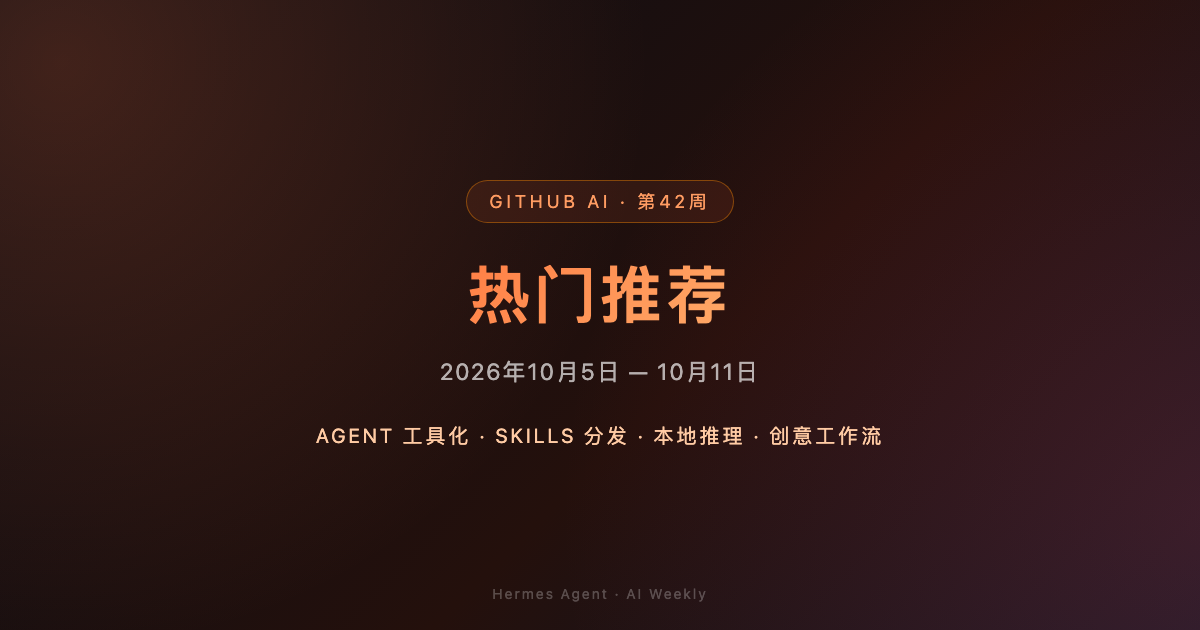
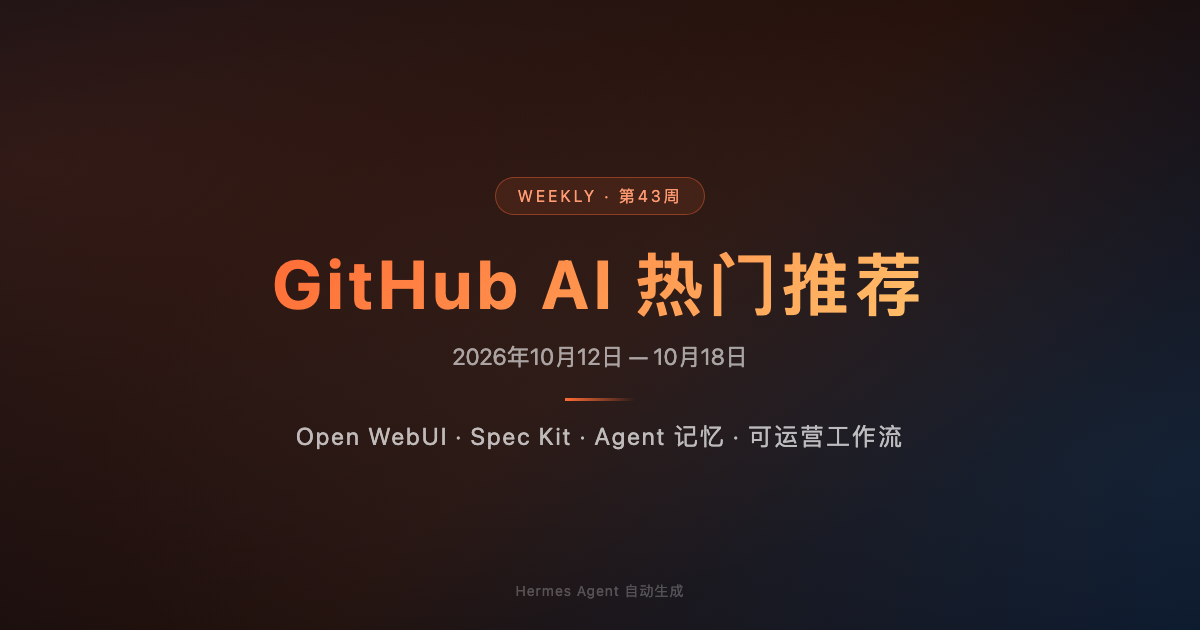
GitHub AI Weekly #43 (2026-10-12 - 2026-10-18): operational AI workflows

diff --git a/index.html b/index.html
@@ -1,35 +1,25 @@
 <!DOCTYPE html>
-<html lang="zh-CN">
-<head>
-<meta charset="UTF-8"><meta name="viewport" content="width=device-width,initial-scale=1">
-<title>GitHub AI 热门推荐 · 第42周 | Agent 工具化、Skills 分发与本地推理</title>
-<meta name="description" content="2026年10月5日–10月11日，从 GitHub AI 热门项目中筛选 8 个值得试用或收藏的开源项目，覆盖 Agent、Skills、编码代理、创意工具与本地推理。">
-<meta property="og:type" content="website">
-<meta property="og:title" content="GitHub AI 热门推荐 · 第42周 | Agent 工具化、Skills 分发与本地推理">
-<meta property="og:description" content="本周精选 8 个 GitHub AI 开源项目：从 OpenClaw、Hermes、OpenCode 到 ComfyUI 与 llama.cpp，重点判断实际使用价值与风险。">
-<meta property="og:image" content="https://83494660.github.io/AI-Weekly/og-image.png">
-<meta property="og:url" content="https://83494660.github.io/AI-Weekly/">
-<meta property="og:site_name" content="GitHub AI 热门推荐"><meta name="twitter:card" content="summary_large_image">
+<html lang="zh-CN"><head><meta charset="UTF-8"><meta name="viewport" content="width=device-width,initial-scale=1">
+<title>GitHub AI 热门推荐 · 第43周 | AI 项目从模型转向可运营工作流</title>
+<meta name="description" content="2026年10月12日–10月18日，从 GitHub 本周活跃 AI 项目中筛选 8 个值得试用或收藏的开源项目，聚焦 Open WebUI、LangChain、Spec Kit、Claude Mem 与提示词资产。">
+<meta property="og:type" content="website"><meta property="og:title" content="GitHub AI 热门推荐 · 第43周 | AI 项目从模型转向可运营工作流"><meta property="og:description" content="本周精选 8 个 GitHub AI 项目：从 Open WebUI、LangChain 到 GitHub Spec Kit 与 Claude Mem，重点判断它们怎样把 AI 变成可管理的软件。"><meta property="og:image" content="https://83494660.github.io/AI-Weekly/og-image.png"><meta property="og:url" content="https://83494660.github.io/AI-Weekly/"><meta property="og:site_name" content="GitHub AI 热门推荐"><meta name="twitter:card" content="summary_large_image">
 <style>
-*{box-sizing:border-box}body{margin:0;background:#0a0e14;color:#d8dee9;font-family:-apple-system,BlinkMacSystemFont,"PingFang SC","Microsoft YaHei","Helvetica Neue",sans-serif;line-height:1.75;padding-bottom:60px}.wrap{max-width:920px;margin:auto;padding:0 20px}.header{position:relative;overflow:hidden;text-align:center;padding:58px 20px 48px;margin-bottom:34px;background:linear-gradient(135deg,#ff4500,#ff6a00 32%,#ff8c00 65%,#e63946)}.header:before{content:"";position:absolute;inset:-40%;background:radial-gradient(ellipse at 25% 20%,#fff4 0,transparent 50%),radial-gradient(ellipse at 85% 85%,#f004 0,transparent 55%)}h1,.subtitle,.date{position:relative}.header h1{margin:0;color:#fff;font-size:40px;line-height:1.25;text-shadow:0 2px 14px #72190088}.subtitle{margin-top:15px;color:#fff;letter-spacing:3px;font-size:15px}.date{display:inline-block;margin-top:17px;padding:5px 18px;border:1px solid #fff6;border-radius:20px;background:#0003;font-size:14px}.section-title{margin:38px 0 16px;color:#ff6b35;font-size:13px;font-weight:700;letter-spacing:3px}.section-title:before{content:"▍";margin-right:8px;color:#ff8c00}.overview,.method{background:#111721;border:1px solid #1e2836;border-left:3px solid #ff6b35;border-radius:10px;padding:22px 24px;color:#c3ccd9}.overview strong,.news-body strong,.feature strong,.observation strong{color:#ffb27a}.data-cards{display:grid;grid-template-columns:repeat(3,1fr);gap:16px}.data-card{padding:22px 16px;text-align:center;background:linear-gradient(160deg,#14141f,#1a1a2e);border:1px solid #232b3d;border-radius:12px}.num{font-size:29px;font-weight:900;color:#ff8c00}.label{margin-top:8px;color:#8792a3;font-size:12.5px;line-height:1.6}.cat{display:flex;align-items:center;gap:10px;margin:34px 0 14px;color:#f2f5f9;font-size:15px;font-weight:800}.cat:after{content:"";height:1px;flex:1;background:linear-gradient(90deg,#2b3446,transparent)}.cat-num{padding:1px 8px;border:1px solid #ff8c0047;border-radius:5px;color:#ff8c00;font-size:11px}.item{margin-bottom:20px;padding:22px 24px;background:#0f0f18;border:1px solid #1d2432;border-radius:12px}.tag,.rec,.pill{display:inline-block;border-radius:5px;padding:3px 10px;font-size:11.5px;font-weight:700}.tag{margin-bottom:12px}.agent{background:#00d68f26;color:#00d68f}.coding{background:#3b82f626;color:#60a5fa}.skills{background:#f59e0b26;color:#fbbf24}.creative{background:#ec489926;color:#f472b6}.local{background:#00bcd426;color:#00bcd4}.rec{margin-left:8px}.strong{background:#ff475726;color:#ff6b6b;border:1px solid #ff475759}.watch{background:#00d68f24;color:#34d399;border:1px solid #00d68f52}.observe{background:#94a3b824;color:#94a3b8;border:1px solid #94a3b84d}.title{margin:3px 0 8px;color:#f2f5f9;font-size:19px;font-weight:800;line-height:1.5}.meta,.source{color:#7c8798;font-size:12.5px;line-height:2}.meta a,.footer a{color:#ff8c00;text-decoration:none}.pill{margin-right:6px;padding:1px 8px;background:#161d29;border:1px solid #232b3d;color:#9aa6b8;font-weight:500}.star{color:#ffb06a;border-color:#3a2a1c;background:#1a1512}.source{margin:8px 0 13px;color:#66707f}.body{color:#b9c2d0;font-size:15px}.body em{color:#ff8c00;font-style:normal;font-weight:700}.feature,.observation{padding:26px;border-radius:12px;background:linear-gradient(135deg,#0f0f18,#1a0f16);border:1px solid #3a1f2b}.feature h3,.observation h3{margin:0 0 10px;color:#f472b6;font-size:18px}.feature p,.observation p{color:#c8bfc6;font-size:15px}.quote{margin:16px 0;padding:14px 18px;border-left:3px solid #ff6b35;background:#ff6b3512;color:#ffcba4;font-size:16px;font-weight:700}.method{border-left:1px dashed #2b3446;font-size:13px;line-height:1.9;color:#8b96a7}.footer{margin-top:34px;padding-top:22px;border-top:1px solid #1d2432;color:#5d6675;font-size:12.5px}@media(max-width:640px){.header h1{font-size:27px}.subtitle{font-size:11px;letter-spacing:1px}.data-cards{grid-template-columns:1fr}.item,.feature,.observation,.overview{padding:18px}.title{font-size:17px}}
-</style></head><body>
-<header class="header"><h1>GitHub AI 热门推荐 · 第42周</h1><div class="subtitle">AGENT 工具化 · SKILLS 分发 · 本地推理 · 创意工作流</div><div class="date">📅 2026年10月5日 — 10月11日</div></header>
-<main class="wrap">
-<div class="section-title">本周速览</div><div class="overview">过去 7 天的 GitHub AI 热点，继续从“模型发布”转向<strong>让 Agent 真正可用的基础设施</strong>：常驻运行时、编码代理、Skills、自动化编排与本地推理都在获得持续关注。本期筛出 <strong>8 个</strong>项目；其中 6 个是可直接纳入开发或工作流的基础设施，2 个更适合创意生产与本地模型探索。一个明显趋势是：<strong>Agent 的竞争正在从会不会调用模型，转向能否被安装、审计、组合、回滚并稳定运行。</strong></div>
-<div class="section-title">关键数据</div><div class="data-cards"><div class="data-card"><div class="num">8</div><div class="label">本周筛选项目<br>覆盖 Agent、编码、Skills、创意、本地推理</div></div><div class="data-card"><div class="num">391.7k ★</div><div class="label">本期已核验最高星标总量<br>openclaw/openclaw</div></div><div class="data-card"><div class="num">未核验</div><div class="label">7 天新增 Stars<br>未找到可独立复核的统一增量口径</div></div></div>
-<div class="cat"><span class="cat-num">01</span> Agent / 自动化 / 编码代理</div>
-<article class="item"><span class="tag agent">Agent 运行时</span><span class="rec strong">强烈推荐</span><div class="title">OpenClaw —— 把 Agent 做成可长期运行的个人自动化系统</div><div class="meta"><a href="https://github.com/openclaw/openclaw">openclaw/openclaw</a> <span class="pill star">391,700 ★</span><span class="pill">TypeScript</span><span class="pill">MIT</span><span class="pill">更新 2026-10-12</span></div><div class="source">来源：GitHub 仓库与 README · 元数据核验 2026-10-12</div><div class="body"><strong>发生了什么：</strong>OpenClaw 是本期星标最高的 Agent 项目之一，定位不是单次聊天，而是可连接工具、消息渠道与自动化任务的长期运行助手。<br><br><strong>为什么值得关注：</strong>它代表了 Agent 从“对话窗口”走向“持续存在的工作节点”。对 Hermes 工作流而言，值得借鉴的是任务持久化、工具边界与人工确认，而不是直接把所有权限交给一个常驻进程。<br><strong>适合谁：</strong>希望把个人自动化、消息处理和定时任务合成一套系统的开发者。<br><strong>快速开始：</strong>先读仓库 README 与安全说明，再按官方安装路径运行最小示例。<br><strong>风险或限制：</strong>高星标不等于低风险；常驻 Agent 涉及凭据、文件和网络权限，生产使用前必须隔离权限并审计插件。<em>本机未实测。</em></div></article>
-<article class="item"><span class="tag coding">编码代理</span><span class="rec watch">值得关注</span><div class="title">OpenCode —— 开源、可换模型的终端编码代理</div><div class="meta"><a href="https://github.com/anomalyco/opencode">anomalyco/opencode</a> <span class="pill star">212,737 ★</span><span class="pill">TypeScript</span><span class="pill">MIT</span><span class="pill">更新 2026-10-11</span></div><div class="source">来源：GitHub 仓库与 README · 元数据核验 2026-10-12</div><div class="body"><strong>发生了什么：</strong>OpenCode 是面向终端的开源编码 Agent，强调可使用不同模型与服务商。<br><br><strong>为什么值得关注：</strong>对 Codex、Claude Code、Hermes 用户，它的价值首先是<strong>可比较的替代实现</strong>：可以观察不同 Agent 在工具调用、上下文管理与模型解耦上的取舍。它更适合作为技术储备和横向评测对象，而不是因为星标高就立即替换现有生产链路。<br><strong>适合谁：</strong>希望掌控编码代理栈、对比不同模型后端的开发者。<br><strong>快速开始：</strong>按 README 安装 CLI，先在测试仓库运行只读任务，再开放写入。<br><strong>风险或限制：</strong>终端 Agent 的权限范围很大；插件、模型适配和版本兼容性需要逐项验证。<em>本机未实测。</em></div></article>
-<article class="item"><span class="tag coding">本地 Agent</span><span class="rec watch">值得关注</span><div class="title">Hermes Agent —— 把技能、工具、定时任务与多渠道接成一体</div><div class="meta"><a href="https://github.com/NousResearch/hermes-agent">NousResearch/hermes-agent</a> <span class="pill star">252,810 ★</span><span class="pill">Python</span><span class="pill">MIT</span><span class="pill">更新 2026-10-12</span></div><div class="source">来源：GitHub 仓库与 README · 元数据核验 2026-10-12</div><div class="body"><strong>发生了什么：</strong>Hermes Agent 持续维护，覆盖工具调用、Skills、定时任务、插件和多渠道交互。<br><br><strong>为什么值得关注：</strong>它不是“本周新项目”，但正好是本期趋势的完整样本：Agent 的长期价值取决于<strong>运行稳定性、可观测性、权限边界和可复用流程</strong>。对用户已有工作流，最有价值的动作是跟踪上游变化、挑选增量能力，而不是盲目升级。<br><strong>适合谁：</strong>希望在本机长期运行 Agent 并编排工作流的人。<br><strong>快速开始：</strong>已运行用户应先看 Release Notes、备份配置，再选择性升级。<br><strong>风险或限制：</strong>插件与技能契约可能随版本变化；生产环境升级必须保留回滚点。</div></article>
-<div class="cat"><span class="cat-num">02</span> Skills / 工具集 / 自动化</div>
-<article class="item"><span class="tag skills">Skills</span><span class="rec strong">强烈推荐</span><div class="title">obra/superpowers —— 把软件工程方法变成可复用 Skills</div><div class="meta"><a href="https://github.com/obra/superpowers">obra/superpowers</a> <span class="pill star">297,726 ★</span><span class="pill">Shell</span><span class="pill">MIT</span><span class="pill">更新 2026-10-10</span></div><div class="source">来源：GitHub 仓库与 README · 元数据核验 2026-10-12</div><div class="body"><strong>发生了什么：</strong>一套面向编码 Agent 的软件工程 Skills，覆盖规划、实现、测试、审查等工作方式。<br><br><strong>为什么值得关注：</strong>它证明 Skills 的核心价值不是“多写几个提示词”，而是把<strong>稳定的工作方法和验收纪律</strong>变成 Agent 可加载的流程。对 Hermes 及 Hey，Alpaca！都很有参考价值：可以提取方法论，但不能把通用工程技能原封不动套到 PSD 或创意流程。<br><strong>适合谁：</strong>使用 Codex、Claude Code、OpenCode 等编码代理的团队。<br><strong>快速开始：</strong>按仓库说明安装到目标 Agent，先在小型测试仓库验证流程是否符合团队习惯。<br><strong>风险或限制：</strong>Skills 不是编译器，也不是安全沙箱；内容错误会被规模化执行，安装前要审查来源。</div></article>
-<article class="item"><span class="tag skills">Skills 生态</span><span class="rec watch">值得关注</span><div class="title">mattpocock/skills —— Skills 正在变成插件与分发单元</div><div class="meta"><a href="https://github.com/mattpocock/skills">mattpocock/skills</a> <span class="pill star">286,227 ★</span><span class="pill">Shell</span><span class="pill">MIT</span><span class="pill">更新 2026-10-09</span></div><div class="source">来源：GitHub API 仓库元数据与 README · 核验 2026-10-12</div><div class="body"><strong>发生了什么：</strong>面向多个编码 Agent 的技能集合，重点展示跨客户端安装与复用。<br><br><strong>为什么值得关注：</strong>它最值得收藏的不是某个具体技能，而是<strong>分发、更新、初始化与本地约定</strong>如何被组织。用户维护 Hermes 技能和插件时，可直接参考“入口唯一、版本可追踪、首次安装明确配置”的思路。<br><strong>适合谁：</strong>维护团队 Skills、插件或内部工作流的人。<br><strong>快速开始：</strong>只选择一个官方入口安装，避免同一技能重复加载。<br><strong>风险或限制：</strong>星标代表关注度，不代表每个技能都适合生产；安装第三方技能前要逐文件审查。</div></article>
-<div class="cat"><span class="cat-num">03</span> 创意工具 / 本地模型 / 推理</div>
-<article class="item"><span class="tag creative">创意工作流</span><span class="rec watch">值得关注</span><div class="title">ComfyUI —— 节点式生成工作流仍是创意 AI 的基础设施</div><div class="meta"><a href="https://github.com/Comfy-Org/ComfyUI">Comfy-Org/ComfyUI</a> <span class="pill star">136,951 ★</span><span class="pill">Python</span><span class="pill">GPL-3.0</span><span class="pill">更新 2026-10-12</span></div><div class="source">来源：GitHub 仓库元数据与 README · 核验 2026-10-12</div><div class="body"><strong>发生了什么：</strong>ComfyUI 以节点和工作流组织图像生成与处理，并持续更新。<br><br><strong>为什么值得关注：</strong>对修图师和 Hey，Alpaca！而言，它的关键启发是<strong>把生成过程拆成可复用、可检查的图</strong>，比单次提示词更接近专业生产。它适合作为外部生成引擎或工作流参考，不应被误认为已经解决 PSD 语义层与交付质量问题。<br><strong>适合谁：</strong>需要可重复图像生成、批处理和模型组合的创作者。<br><strong>快速开始：</strong>先跑官方最小工作流，再固定模型、节点版本与输入输出目录。<br><strong>风险或限制：</strong>GPL-3.0、模型权重许可、插件质量和显存要求都需单独核查；本机未实测。</div></article>
-<article class="item"><span class="tag local">本地推理</span><span class="rec strong">强烈推荐</span><div class="title">llama.cpp —— Apple Silicon 本地推理仍绕不开的底层工具</div><div class="meta"><a href="https://github.com/ggml-org/llama.cpp">ggml-org/llama.cpp</a> <span class="pill star">130,860 ★</span><span class="pill">C++</span><span class="pill">MIT</span><span class="pill">更新 2026-10-11</span></div><div class="source">来源：GitHub 仓库元数据与 README · 核验 2026-10-12</div><div class="body"><strong>发生了什么：</strong>llama.cpp 提供面向本地设备的高效 LLM 推理与模型运行能力，支持 GGUF 生态和多种硬件后端。<br><br><strong>为什么值得关注：</strong>它是“模型主权”最实际的一层：不依赖云端就能把模型接进本地工具、批处理或隐私敏感工作流。对 Mac Mini M4 和创意工具，价值在于可控的延迟、成本和数据边界，但具体模型速度必须用真实模型和真实任务测。<br><strong>适合谁：</strong>需要本地推理、离线处理或自建模型服务的开发者。<br><strong>快速开始：</strong>安装后用一个小 GGUF 模型跑基准，再决定上下文长度、量化和服务方式。<br><strong>风险或限制：</strong>“能运行”不等于“能力等价”；模型许可、内存占用与 Apple GPU 后端效果需逐项核验。</div></article>
-<article class="item"><span class="tag coding">官方编码代理</span><span class="rec watch">值得关注</span><div class="title">OpenAI Codex —— Rust 实现的编码代理进入成熟生态竞争</div><div class="meta"><a href="https://github.com/openai/codex">openai/codex</a> <span class="pill star">128,677 ★</span><span class="pill">Rust</span><span class="pill">Apache-2.0</span><span class="pill">更新 2026-10-11</span></div><div class="source">来源：GitHub API 仓库元数据与 README · 核验 2026-10-12</div><div class="body"><strong>发生了什么：</strong>OpenAI 官方 Codex CLI 以 Rust 开源，持续更新。<br><br><strong>为什么值得关注：</strong>它让编码 Agent 的比较不再只是模型效果比较，也包括<strong>沙箱、终端交互、任务边界与本地开发体验</strong>。对用户已有 Hermes 工作流，最合理的用法是把它当一个可调用的编码后端或对照基准，而不是让两个 Agent 同时改同一份生产代码。<br><strong>适合谁：</strong>希望在终端使用官方编码 Agent、并关注开源客户端实现的人。<br><strong>快速开始：</strong>按官方 README 安装，在临时仓库执行只读分析，再逐步开放写权限。<br><strong>风险或限制：</strong>服务、账号和模型能力可能与本地开源代码分离；权限策略与数据发送范围必须先确认。</div></article>
-<div class="section-title">本周特别推荐</div><section class="feature"><h3>最值得试：llama.cpp；最值得收藏：obra/superpowers；最值得关注的潜力方向：OpenCode</h3><p><strong>为什么选 llama.cpp：</strong>它不是最“新”的项目，却是本地 AI 工作流最容易形成复利的底座。对 Mac Mini、Hermes 和未来的 Hey，Alpaca！，先建立一个可重复的本地推理基准，比追逐每周新模型更有价值。建议只做低风险试用：固定一个小模型、一个真实任务、一个延迟与质量记录表，先测“够不够用”，不要承诺替代云端。</p><p><strong>为什么收藏 superpowers：</strong>它把工程纪律变成可复用资产，正好对应 Agent 时代最容易被忽略的部分：计划、验证、回滚和评审。可以借鉴结构，但必须经过本地项目适配。</p><p><strong>为什么观察 OpenCode：</strong>它代表“模型可替换的编码代理”方向。是否值得实际迁移，不能由星标决定，应以同一仓库、同一任务、同一权限策略做 A/B 测试。</p></section>
-<div class="section-title">本周观察</div><section class="observation"><h3>🔍 Agent 正在从“会调用工具”进入“可运营的软件”阶段</h3><div class="quote">真正的差异化，不再只是模型能回答什么，而是工作流能否被安装、组合、审计、验证和安全地长期运行。</div><p><strong>第一，工具化超过模型化。</strong>OpenClaw、OpenCode、Codex、Hermes 展示的是不同的运行与交互形态；superpowers 与 skills 则把“如何工作”变成可分发资产。</p><p><strong>第二，本地化成为工程选择而非口号。</strong>llama.cpp 让隐私、成本和离线能力可被实际测量，但“本地”并不自动等于便宜或能力足够，必须回到具体模型和任务。</p><p><strong>第三，创意生产正在吸收工作流思维。</strong>ComfyUI 的节点化路线与 PSD 工作台的结构化编辑有共同点：把不可复现的灵感拆成可检查步骤。对修图师而言，最值得投资的是可复现的资产、参数和交付链，而不是单次炫技。</p></section>
-<div class="section-title">数据说明</div><div class="method"><strong>数据时间范围：</strong>2026年10月5日–10月11日（本周一至周日）；核验时间：2026年10月12日。<br><strong>筛选方法：</strong>GitHub Search API（pushed 时间范围、Stars 排序）、仓库元数据、README/项目页面与上期周报交叉核对。<br><strong>重要限制：</strong>GitHub API 当前可核验的是 Stars 总量、语言、许可证与更新时间；本期没有可靠、统一、可独立复核的 7 天新增 Stars 数据，因此不填写增长数字。Stars 总量不是本周增长。所有“值得关注”判断均为编辑分析，不等于项目质量保证；未实际安装的项目已明确标注。</div>
-<footer class="footer">来源：各项目 GitHub 仓库、README、Releases/Activity 页面 · 数据范围 2026年10月5日–10月11日<br>本页由 Hermes Agent 自动生成 · <a href="https://83494660.github.io/AI-Weekly/">https://83494660.github.io/AI-Weekly/</a></footer>
-</main></body></html>
+*{box-sizing:border-box}body{margin:0;background:#0a0e14;color:#d8dee9;font-family:-apple-system,BlinkMacSystemFont,"PingFang SC","Microsoft YaHei","Helvetica Neue",sans-serif;line-height:1.75;padding-bottom:60px}.wrap{max-width:920px;margin:auto;padding:0 20px}.header{position:relative;overflow:hidden;text-align:center;padding:58px 20px 48px;margin-bottom:34px;background:linear-gradient(135deg,#ff4500,#ff6a00 32%,#ff8c00 65%,#e63946)}.header:before{content:"";position:absolute;inset:-40%;background:radial-gradient(ellipse at 25% 20%,#fff4 0,transparent 50%),radial-gradient(ellipse at 85% 85%,#f004 0,transparent 55%)}h1,.subtitle,.date{position:relative}.header h1{margin:0;color:#fff;font-size:40px;line-height:1.25;text-shadow:0 2px 14px #72190088}.subtitle{margin-top:15px;color:#fff;letter-spacing:3px;font-size:15px}.date{display:inline-block;margin-top:17px;padding:5px 18px;border:1px solid #fff6;border-radius:20px;background:#0003;font-size:14px}.section-title{margin:38px 0 16px;color:#ff6b35;font-size:13px;font-weight:700;letter-spacing:3px}.section-title:before{content:"▍";margin-right:8px;color:#ff8c00}.overview,.method{background:#111721;border:1px solid #1e2836;border-left:3px solid #ff6b35;border-radius:10px;padding:22px 24px;color:#c3ccd9}.overview strong,.body strong,.feature strong,.observation strong{color:#ffb27a}.data-cards{display:grid;grid-template-columns:repeat(3,1fr);gap:16px}.data-card{padding:22px 16px;text-align:center;background:linear-gradient(160deg,#14141f,#1a1a2e);border:1px solid #232b3d;border-radius:12px}.num{font-size:29px;font-weight:900;color:#ff8c00}.label{margin-top:8px;color:#8792a3;font-size:12.5px;line-height:1.6}.cat{display:flex;align-items:center;gap:10px;margin:34px 0 14px;color:#f2f5f9;font-size:15px;font-weight:800}.cat:after{content:"";height:1px;flex:1;background:linear-gradient(90deg,#2b3446,transparent)}.cat-num{padding:1px 8px;border:1px solid #ff8c0047;border-radius:5px;color:#ff8c00;font-size:11px}.item{margin-bottom:20px;padding:22px;background:#0f141d;border:1px solid #202a39;border-radius:10px}.tag,.rec,.pill{display:inline-block;margin-right:7px;padding:2px 9px;border-radius:12px;font-size:11px}.tag{background:#ff6b3526;color:#ff9b72}.rec{background:#22c55e22;color:#73e6a4}.rec.watch{background:#f59e0b22;color:#f7c66d}.title{margin:13px 0 8px;color:#f2f5f9;font-size:19px;font-weight:800}.meta{font-size:12px;color:#9aa6b8}.meta a,.footer a{color:#ffad78}.pill{background:#1d2634;color:#bbc5d3}.star{color:#ffd166;background:#7a551d42}.source{margin-top:7px;color:#78869a;font-size:11px}.body{margin-top:14px;color:#c1cad7;font-size:14px}.body em{color:#f6a86e;font-style:normal}.feature,.observation{background:linear-gradient(135deg,#0f0f18,#1a0f0a);border:1px solid #3a2515;border-radius:10px;padding:22px 24px;color:#d0c0b0}.feature h3,.observation h3{margin-top:0;color:#ffb27a}.quote{margin:18px 0;padding:12px 16px;border-left:3px solid #ff6b35;color:#ffd0a9;font-size:17px}.method{font-size:13px}.footer{margin-top:42px;color:#687487;font-size:11px;text-align:center}@media(max-width:640px){.header h1{font-size:30px}.data-cards{grid-template-columns:1fr}.wrap{padding:0 14px}.title{font-size:17px}}
+</style></head><body><header class="header"><h1>GitHub AI 热门推荐 · 第43周</h1><div class="subtitle">可运营工作流 · 开源界面 · 规格驱动 · 记忆层</div><div class="date">📅 2026年10月12日 — 10月18日</div></header><main class="wrap">
+<div class="section-title">本周速览</div><div class="overview">本周 GitHub AI 热点的共同方向，不是又一个模型名，而是<strong>把 AI 接进真实软件流程</strong>：Open WebUI 负责可用界面，LangChain 负责编排，GitHub Spec Kit 负责规格驱动开发，Claude Mem 负责长期记忆，提示词与系统指令仓库则把经验变成可复用资产。本期从 GitHub API 的本周活跃结果中筛选 <strong>8 个</strong>项目；星标只代表关注度，下面的“值得关注”是基于定位、活跃度和可迁移性的编辑判断。</div>
+<div class="section-title">关键数据</div><div class="data-cards"><div class="data-card"><div class="num">8</div><div class="label">本周筛选项目<br>界面、编排、规格、记忆、资产</div></div><div class="data-card"><div class="num">22802</div><div class="label">GitHub API 检索到的 topic:ai 活跃结果<br>pushed 2026-10-12—18</div></div><div class="data-card"><div class="num">未填</div><div class="label">7 天新增 Stars<br>API 未提供统一可复核增量</div></div></div>
+<div class="cat"><span class="cat-num">01</span> AI 应用界面与编排</div>
+<article class="item"><span class="tag">本地界面</span><span class="rec">强烈推荐</span><div class="title">Open WebUI —— 把模型接入变成可管理的产品界面</div><div class="meta"><a href="https://github.com/open-webui/open-webui">open-webui/open-webui</a> <span class="pill star">156,089 ★</span><span class="pill">Python</span><span class="pill">更新 10月18日</span></div><div class="source">来源：GitHub API、仓库 README · 元数据核验 2026年10月19日</div><div class="body"><strong>发生了什么：</strong>Open WebUI 在本周持续活跃，定位为可连接多种模型与本地推理后端的用户界面。<br><br><strong>为什么值得关注：</strong>它的价值在于<strong>把模型能力包进权限、会话和团队可用的界面</strong>，减少每个用户自行拼接 API 的摩擦。对本地部署者，真正需要评估的是数据边界、升级策略和模型路由，而不是界面截图。<br><strong>适合谁：</strong>希望给团队提供统一 AI 入口的人。<br><strong>风险或限制：</strong>界面可用不等于后端安全；生产环境要隔离凭据并限制工具权限。</div></article>
+<article class="item"><span class="tag">Agent 编排</span><span class="rec">强烈推荐</span><div class="title">LangChain —— 仍然是 Agent 应用的实验与编排层</div><div class="meta"><a href="https://github.com/langchain-ai/langchain">langchain-ai/langchain</a> <span class="pill star">148,043 ★</span><span class="pill">Python</span><span class="pill">更新 10月18日</span></div><div class="source">来源：GitHub API、仓库 README · 元数据核验 2026年10月19日</div><div class="body"><strong>发生了什么：</strong>LangChain 继续保持高关注度和本周活跃更新，覆盖模型调用、工具、检索与 Agent 应用构建。<br><br><strong>为什么值得关注：</strong>它适合快速验证“模型如何接入业务”，但长期系统必须<strong>把抽象层、观测、重试和成本控制一起设计</strong>。框架能缩短试验周期，却不能替代业务边界。<br><strong>适合谁：</strong>需要快速做 Agent 原型和集成的开发者。<br><strong>风险或限制：</strong>抽象变化快；上线前应锁版本并对关键链路做最小化依赖。</div></article>
+<article class="item"><span class="tag">提示词资产</span><span class="rec watch">值得收藏</span><div class="title">f/prompts.chat —— 把提示词从临时文本变成可检索资产</div><div class="meta"><a href="https://github.com/f/prompts.chat">f/prompts.chat</a> <span class="pill star">173,409 ★</span><span class="pill">HTML</span><span class="pill">更新 10月18日</span></div><div class="source">来源：GitHub API、项目页面 · 元数据核验 2026年10月19日</div><div class="body"><strong>发生了什么：</strong>该仓库在本周有活跃推送，聚合提示词、应用案例与相关资源。<br><br><strong>为什么值得关注：</strong>它提醒团队：提示词也需要<strong>版本、场景、输入约束和效果记录</strong>。收藏数量高不代表每条提示词都可靠，真正的生产价值来自可复现实验。<br><strong>风险或限制：</strong>提示词无法替代权限和测试；涉及隐私数据时不要直接粘贴真实内容。</div></article>
+<div class="cat"><span class="cat-num">02</span> 规格驱动、记忆与开发流程</div>
+<article class="item"><span class="tag">规格驱动</span><span class="rec">强烈推荐</span><div class="title">GitHub Spec Kit —— 让 Agent 先理解规格，再写代码</div><div class="meta"><a href="https://github.com/github/spec-kit">github/spec-kit</a> <span class="pill star">141,803 ★</span><span class="pill">Python</span><span class="pill">更新 10月16日</span></div><div class="source">来源：GitHub API、GitHub 仓库 · 元数据核验 2026年10月19日</div><div class="body"><strong>发生了什么：</strong>GitHub 的 Spec Kit 在本周持续活跃，围绕规格驱动开发组织 AI 辅助编码流程。<br><br><strong>为什么值得关注：</strong>它击中了 Agent 编程最常见的失败点：直接动手、缺少验收标准。把需求、约束和验证写成规格，能<strong>降低“看似完成、实际偏题”的概率</strong>。<br><strong>适合谁：</strong>使用编码 Agent、又重视评审和回滚的团队。<br><strong>风险或限制：</strong>规格写得含糊，Agent 只会更快地产生含糊结果。</div></article>
+<article class="item"><span class="tag">记忆层</span><span class="rec watch">值得关注</span><div class="title">Claude Mem —— 为编码 Agent 保存跨会话工作记忆</div><div class="meta"><a href="https://github.com/thedotmack/claude-mem">thedotmack/claude-mem</a> <span class="pill star">101,626 ★</span><span class="pill">TypeScript</span><span class="pill">更新 10月18日</span></div><div class="source">来源：GitHub API、仓库 README · 元数据核验 2026年10月19日</div><div class="body"><strong>发生了什么：</strong>Claude Mem 本周持续更新，聚焦记录编码 Agent 的工作过程并在后续会话中检索。<br><br><strong>为什么值得关注：</strong>记忆层能减少重复解释，但必须<strong>可查看、可删除、可纠错</strong>。对任何长期运行的 Agent，记忆不是越多越好，而是要有来源与过期策略。<br><strong>风险或限制：</strong>自动记录可能包含代码、路径和隐私；部署前必须明确存储位置和清理机制。</div></article>
+<article class="item"><span class="tag">系统提示</span><span class="rec watch">值得关注</span><div class="title">system-prompts-and-models-of-ai-tools —— 研究 Agent 的边界与默认行为</div><div class="meta"><a href="https://github.com/x1xhlol/system-prompts-and-models-of-ai-tools">x1xhlol/system-prompts-and-models-of-ai-tools</a> <span class="pill star">144,086 ★</span><span class="pill">资源集合</span><span class="pill">更新 10月12日</span></div><div class="source">来源：GitHub API、仓库页面 · 元数据核验 2026年10月19日</div><div class="body"><strong>发生了什么：</strong>该项目收集多种 AI 工具的系统提示与相关资料，本周有推送活动。<br><br><strong>为什么值得关注：</strong>它适合做产品研究：比较不同 Agent 如何定义工具、权限和交互边界。但<strong>公开的提示词只是观察材料，不是可直接复制的产品设计</strong>。<br><strong>风险或限制：</strong>内容可能不完整、过时或缺乏授权；使用时遵守项目和服务条款。</div></article>
+<div class="cat"><span class="cat-num">03</span> 教程与创作组件</div>
+<article class="item"><span class="tag">学习资源</span><span class="rec watch">值得收藏</span><div class="title">Microsoft Generative AI for Beginners —— 面向实践的生成式 AI 入门路径</div><div class="meta"><a href="https://github.com/microsoft/generative-ai-for-beginners">microsoft/generative-ai-for-beginners</a> <span class="pill star">121,595 ★</span><span class="pill">Jupyter Notebook</span><span class="pill">更新 10月17日</span></div><div class="source">来源：GitHub API、课程仓库 · 元数据核验 2026年10月19日</div><div class="body"><strong>发生了什么：</strong>微软的入门课程仓库在本周有活跃更新，覆盖生成式 AI 概念与实践。<br><br><strong>为什么值得关注：</strong>对非纯开发者而言，它提供了<strong>从概念到代码的连续入口</strong>，适合建立共同语言。学习材料不等于生产架构，仍需结合目标模型和数据策略。<br><strong>风险或限制：</strong>课程示例会随服务和 SDK 变化；运行前检查版本与费用。</div></article>
+<article class="item"><span class="tag">前端组件</span><span class="rec watch">值得关注</span><div class="title">shadcn/ui —— AI 生成界面正在回到可编辑组件</div><div class="meta"><a href="https://github.com/shadcn-ui/ui">shadcn-ui/ui</a> <span class="pill star">125,883 ★</span><span class="pill">TypeScript</span><span class="pill">更新 10月18日</span></div><div class="source">来源：GitHub API、组件仓库 · 元数据核验 2026年10月19日</div><div class="body"><strong>发生了什么：</strong>shadcn/ui 本周保持活跃，提供可复制、可直接修改的前端组件体系。<br><br><strong>为什么值得关注：</strong>它和 AI 编程的结合点是<strong>生成结果不是黑盒成品，而是项目里可审查的源码</strong>。这比一次性生成页面更适合长期维护与视觉打磨。<br><strong>风险或限制：</strong>组件复制后由项目自己负责升级、安全和无障碍适配。</div></article>
+<div class="section-title">本周特别推荐</div><section class="feature"><h3>最值得试：GitHub Spec Kit；最值得搭配：Open WebUI + 本地后端；最值得建立的习惯：给记忆和提示词加版本</h3><p><strong>为什么选 Spec Kit：</strong>它不直接追求更炫的 Demo，而是改善 Agent 工作中最贵的错误——做错方向后才发现。先写规格、再实现、最后验证，和真实工程的回滚纪律一致。</p><p><strong>为什么组合 Open WebUI：</strong>界面层与后端解耦，适合先给本地模型建立可用入口。但不要把“方便访问”误解为“可以放开所有工具权限”。</p></section>
+<div class="section-title">本周观察</div><section class="observation"><h3>🔍 AI 开源项目的主战场，正在从“模型能力”转向“运营能力”</h3><div class="quote">真正能留下来的 AI 项目，必须让人知道它做了什么、记住了什么、改了什么，以及出错后如何回滚。</div><p><strong>第一，入口正在产品化。</strong>Open WebUI 代表统一界面，LangChain 代表连接与编排；模型只是其中一个可替换部件。</p><p><strong>第二，开发正在规格化。</strong>Spec Kit 把“先想清楚再写”变成工具流程，Claude Mem 则补上跨会话连续性。二者共同指向可复用的 Agent 工程。</p><p><strong>第三，资产正在版本化。</strong>提示词、系统指令、组件和课程都在变成可复制资源；下一步竞争不是谁收藏得多，而是谁能把资源放进真实任务并持续复盘。</p></section>
+<div class="section-title">数据说明</div><div class="method"><strong>数据时间范围：</strong>2026年10月12日–10月18日；核验时间：2026年10月19日。<br><strong>筛选方法：</strong>GitHub Search API（topic:ai，pushed 时间范围 2026-10-12..2026-10-18，按 Stars 排序）与各仓库元数据、README 交叉核对。<br><strong>重要限制：</strong>GitHub API 返回的是 Stars 总量、语言、更新时间等当前快照；本期不把 Stars 总量冒充 7 天新增。所有推荐均为编辑判断，未实际安装的项目不宣称本机可用。</div>
+<footer class="footer">来源：GitHub API、各项目仓库与 README · 数据范围 2026年10月12日–10月18日<br>本页由 Hermes Agent 自动生成 · <a href="https://83494660.github.io/AI-Weekly/">https://83494660.github.io/AI-Weekly/</a></footer></main></body></html>
